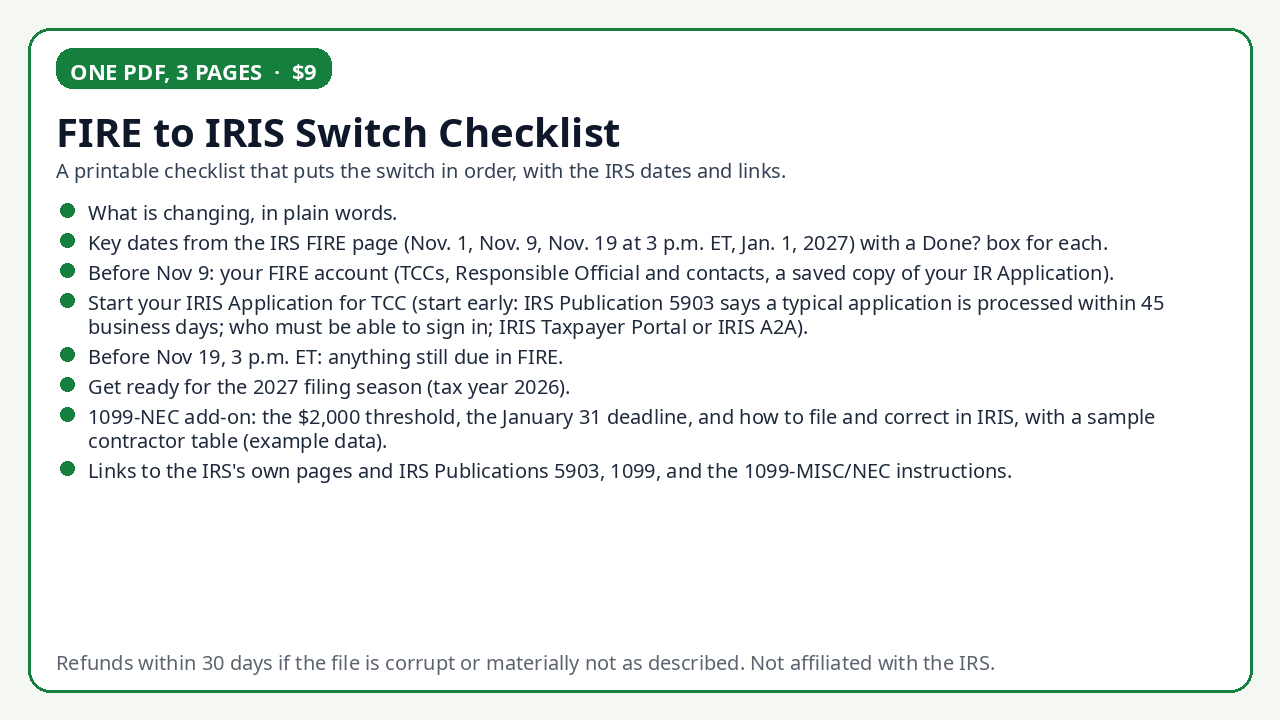
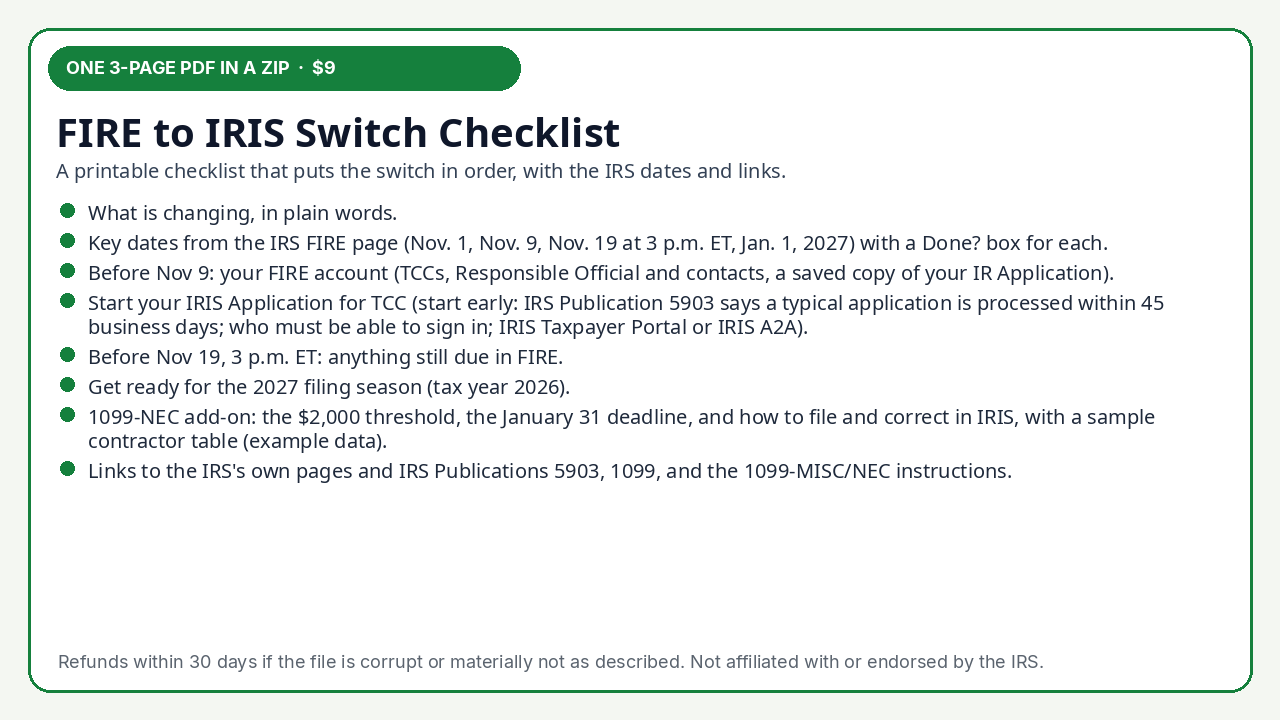
Correct FIRE page counts, passed test cutoff and ZIP preview wording
The checker said the checklist was one page and told people to submit test files by Nov 1, 2026. The kit is 3 pages, that test-file date has passed, and the IRS affiliation line now includes "or endorsed by". The preview image says the same.

Changed region(s): [[0.0312, 0.8861, 0.8125, 0.9472], [0.0312, 0.0611, 0.4062, 0.1528]]

diff --git a/tools/fire-to-iris-check/index.html b/tools/fire-to-iris-check/index.html
@@ -237,7 +237,7 @@ picture:has(> .kit-preview-img),picture:has(> img){display:block;max-width:100%}
 <main id="main">
 <p class="muted site-nav"><a href="https://firstmoverprojects.com/">First Mover Projects</a> · <a href="/tools/">All tools</a> · free browser check</p>
 <h1>IRS FIRE to IRIS Readiness &amp; 1099 CSV Header Check</h1>
-<p class="subhead">Free check in your browser. If you want every step on one page, the $9 checklist is optional.</p>
+<p class="subhead">Free check in your browser. If you want every step on 3 pages, the $9 checklist is optional.</p>
 <div class="kit-top">
 <p data-fire-kit="1"><a target="_blank" class="btn" id="kit-top" data-goatcounter-click="cta/fire-check-top" href="https://firstmoverprojects.gumroad.com/l/fire-to-iris-switch-checklist?wanted=true&amp;utm_source=site&amp;utm_medium=site&amp;utm_campaign=fire-to-iris-check&amp;utm_content=fire-check-top" rel="noopener" referrerpolicy="strict-origin-when-cross-origin">See the $9 FIRE to IRIS checklist</a></p>
 <p class="next-irs" id="next-irs"><span data-next-irs-copy="">Next IRS date: Nov 9, 2026, the last day to change your IR Application for TCC (after that it is read-only). Last day to file on FIRE: Nov 19, 2026, 3 p.m. ET. </span>Source: <a href="https://www.irs.gov/e-file-providers/filing-information-returns-electronically-fire" rel="noopener noreferrer">irs.gov/fire</a></p>
@@ -512,7 +512,7 @@ picture:has(> .kit-preview-img),picture:has(> img){display:block;max-width:100%}
 <p>Related: <a href="/deadlines/irs-fire-retirement-nov-19.html">IRS FIRE retirement, Nov 19, 2026</a> · <a href="/deadlines/">All deadlines</a> · <a href="/tools/">Tools and kits</a></p>
 
 <footer>
-<p>Not affiliated with the IRS.</p>
+<p>Not affiliated with or endorsed by the IRS.</p>
 <p>General guidance, not legal, tax or IT advice.</p>
 <p>Thanks for your time. If this isn't right for you, please share it with someone it could help.</p>
 <p>Made by First Mover Projects with AI coding tools.</p>
@@ -599,7 +599,7 @@ function analyze(opts) {
     add("warn", "Before Nov 9, 2026", "Submit any changes to your existing Information Returns (IR) Application for TCC by Nov. 9, 2026. After Nov. 9, existing IR TCC applications become read-only.", "Nov. 9, 2026: Last day to make changes to the Information Returns (IR) Applications for Transmitter Control Codes (TCC).");
   }
   if (open2026) {
-    add("warn", "Before Nov 1 / Nov 19, 2026", "If you need FIRE test filings, submit them by Nov. 1, 2026. Submit any remaining live FIRE information returns by Nov. 19, 2026, at 3 p.m. ET.", "Nov. 1, 2026: Last day to file test information returns through the FIRE Trading Partner Test System. Nov. 19, 2026, at 3 p.m. ET: Last day to file information returns through the FIRE system.");
+    add("warn", "Nov 1, 2026 (passed) / Nov 19, 2026", "Nov. 1, 2026 was the last day to file test information returns through the FIRE Trading Partner Test System. Submit any remaining live FIRE information returns by Nov. 19, 2026, at 3 p.m. ET.", "Nov. 1, 2026: Last day to file test information returns through the FIRE Trading Partner Test System. Nov. 19, 2026, at 3 p.m. ET: Last day to file information returns through the FIRE system.");
   }
   if (over100) {
     add("info", "Over 100 returns", "The free web-based IRIS Taxpayer Portal allows filers to e-file up to 100 returns at a time (or multiple batches of up to 100). For bulk Application-to-Application (A2A) transmission, check the IRS IRIS A2A specifications and TCC requirements.", "The IRIS Taxpayer Portal is a free, web-based filing system that allows filers to e-file up to 100 returns at a time.");
@@ -715,7 +715,7 @@ function render() {
       setResultOffer("fire-result-nov9", false);
     } else if (byId("c-open-2026").checked) {
       problem.textContent = "You still plan to file on FIRE. Test files stop on Nov 1, 2026. The last day to file on the old system is Nov 19, 2026, at 3 p.m. Eastern Time.";
-      setLead("Because you still plan to file on FIRE, the last day is Nov 19, 2026, at 3 p.m. Eastern Time. The checklist lists the IRS dates and links, your FIRE account steps and 2027 prep on one page set.");
+      setLead("Because you still plan to file on FIRE, the last day is Nov 19, 2026, at 3 p.m. Eastern Time. The checklist lists the IRS dates and links, your FIRE account steps and 2027 prep on 3 pages.");
       setResultOffer("fire-result-still-fire", false);
     } else if (res.warns) {
       problem.textContent = "You still have a step to finish before the old IRS system closes on Nov 19, 2026, at 3 p.m. Eastern Time.";
@@ -782,7 +782,7 @@ function render() {
     csvBox.hidden = true;
   }
   lines.push("");
-  lines.push("Not affiliated with the IRS. General guidance, not legal, tax or IT advice. Check irs.gov for official templates and current dates.");
+  lines.push("Not affiliated with or endorsed by the IRS. General guidance, not legal, tax or IT advice. Check irs.gov for official templates and current dates.");
   byId("plain-out").textContent = lines.join("\n");
   byId("copystate").textContent = "";
   byId("results").hidden = false;
